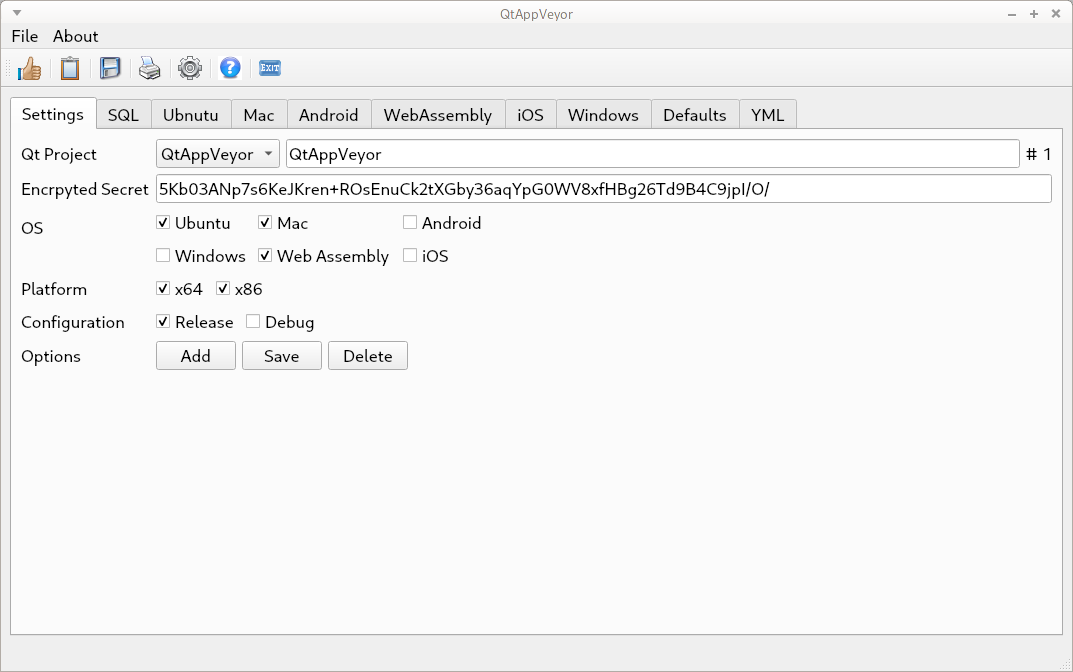
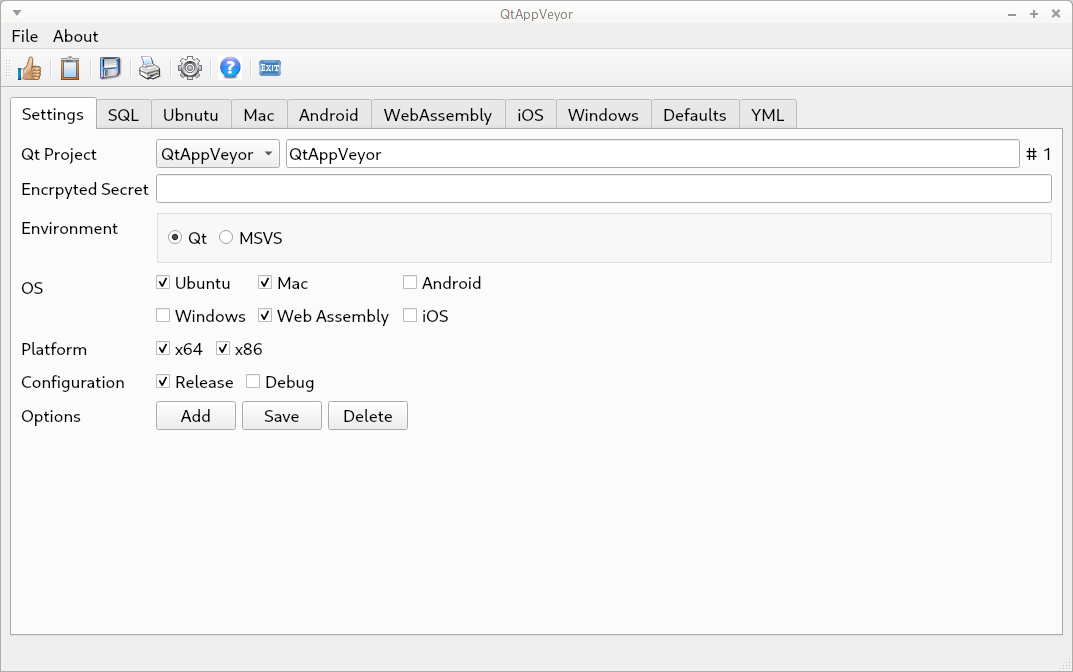
Update

Changed region(s): [[0.0308, 0.25, 0.7074, 0.6562], [0.0, 0.4688, 0.123, 0.625], [0.0, 0.4062, 0.0923, 0.4375]]

diff --git a/MySqlDbtModel.cpp b/MySqlDbtModel.cpp
@@ -8,7 +8,7 @@ MySqlDbtModel::MySqlDbtModel(QObject *parent)
     myOrgDomainSetting = new MyOrgSettings(parent);
     // Create Variable Trackers and Set to Empty
     myConfigurationVariables = new MyConfigurationClass("", "", "", "", "", "", "", "", "", "", "", "", "", "");
-    myProjectVariables = new MyProjectClass("", "", "", "", "", "", "", "", "", "", "", "", "");
+    myProjectVariables = new MyProjectClass("", "", "", "", "", "", "", "", "", "", "", "", "", "");
 }
 /******************************************************************************
 * \fn ~QtAppVeyorDataTable
@@ -369,9 +369,9 @@ bool MySqlDbtModel::checkDatabase()
          * IsDebug varchar,
          * IsRelease varchar
         */
-        if (runQuery(QLatin1String(R"(CREATE TABLE Projects(id integer PRIMARY KEY autoincrement, QtProject varchar, Secret varchar, IsOsUbuntu varchar, IsOsMac varchar, IsOsWebAssembly varchar, IsOSiOS varchar, IsOsWindows varchar, IsOsAndroid varchar, IsX64 varchar, IsX86 varchar, IsDebug varchar, IsRelease varchar))")))
+        if (runQuery(QLatin1String(R"(CREATE TABLE Projects(id integer PRIMARY KEY autoincrement, QtProject varchar, Secret varchar, Environment varchar, IsOsUbuntu varchar, IsOsMac varchar, IsOsWebAssembly varchar, IsOSiOS varchar, IsOsWindows varchar, IsOsAndroid varchar, IsX64 varchar, IsX86 varchar, IsDebug varchar, IsRelease varchar))")))
         {
-            setProject(myOrgDomainSetting->myConstants->MY_PROJECT_QT, myOrgDomainSetting->myConstants->MY_PROJECT_SECRET, myOrgDomainSetting->myConstants->MY_PROJECT_UBUNTU, myOrgDomainSetting->myConstants->MY_PROJECT_MAC, myOrgDomainSetting->myConstants->MY_PROJECT_WINDOWS, myOrgDomainSetting->myConstants->MY_PROJECT_ANDROID, myOrgDomainSetting->myConstants->MY_PROJECT_WEB_ASSEMBLY, myOrgDomainSetting->myConstants->MY_PROJECT_IOS, myOrgDomainSetting->myConstants->MY_PROJECT_X64, myOrgDomainSetting->myConstants->MY_PROJECT_X86, myOrgDomainSetting->myConstants->MY_PROJECT_DEBUG, myOrgDomainSetting->myConstants->MY_PROJECT_RELEASE);
+            setProject(myOrgDomainSetting->myConstants->MY_PROJECT_QT, myOrgDomainSetting->myConstants->MY_PROJECT_SECRET, myOrgDomainSetting->myConstants->MY_PROJECT_ENVIRONMENT, myOrgDomainSetting->myConstants->MY_PROJECT_UBUNTU, myOrgDomainSetting->myConstants->MY_PROJECT_MAC, myOrgDomainSetting->myConstants->MY_PROJECT_WINDOWS, myOrgDomainSetting->myConstants->MY_PROJECT_ANDROID, myOrgDomainSetting->myConstants->MY_PROJECT_WEB_ASSEMBLY, myOrgDomainSetting->myConstants->MY_PROJECT_IOS, myOrgDomainSetting->myConstants->MY_PROJECT_X64, myOrgDomainSetting->myConstants->MY_PROJECT_X86, myOrgDomainSetting->myConstants->MY_PROJECT_DEBUG, myOrgDomainSetting->myConstants->MY_PROJECT_RELEASE);
             if (insertProjects())
             {
                 myProjectID = myInsertID;
@@ -478,7 +478,7 @@ bool MySqlDbtModel::insertProjects()
 {
     if (isDebugMessage) { qDebug() << "insertProjects"; }
     // QtProject, Secret, IsOsUbuntu, IsOsMac, IsOsWindows, IsOsAndroid, IsX64, IsX86, IsDebug, IsRelease
-    QString theQuery = QLatin1String(R"(INSERT INTO Projects (QtProject, Secret, IsOsUbuntu, IsOsMac, IsOsWindows, IsOsAndroid, IsOsWebAssembly, IsOSiOS, IsX64, IsX86, IsDebug, IsRelease) values('%1', '%2', '%3', '%4', '%5', '%6', '%7', '%8', '%9', '%10', '%11', '%12'))").arg(myProjectVariables->getQtProject(), myProjectVariables->getSecret(), myProjectVariables->getIsOsUbuntu(), myProjectVariables->getIsOsMac(), myProjectVariables->getIsOsWindows(), myProjectVariables->getIsOsAndroid(), myProjectVariables->getIsOsWebAssembly(), myProjectVariables->getIsOSiOS(), myProjectVariables->getIsX64(), myProjectVariables->getIsX86(), myProjectVariables->getIsDebug(), myProjectVariables->getIsRelease());
+    QString theQuery = QLatin1String(R"(INSERT INTO Projects (QtProject, Secret, Environment, IsOsUbuntu, IsOsMac, IsOsWindows, IsOsAndroid, IsOsWebAssembly, IsOSiOS, IsX64, IsX86, IsDebug, IsRelease) values('%1', '%2', '%3', '%4', '%5', '%6', '%7', '%8', '%9', '%10', '%11', '%12', '%13'))").arg(myProjectVariables->getQtProject(), myProjectVariables->getSecret(), myProjectVariables->getEnvironment(), myProjectVariables->getIsOsUbuntu(), myProjectVariables->getIsOsMac(), myProjectVariables->getIsOsWindows(), myProjectVariables->getIsOsAndroid(), myProjectVariables->getIsOsWebAssembly(), myProjectVariables->getIsOSiOS(), myProjectVariables->getIsX64(), myProjectVariables->getIsX86(), myProjectVariables->getIsDebug(), myProjectVariables->getIsRelease());
     if (isDebugMessage) { qDebug() << "insertProjects: " << theQuery; }
     //
     if (!runQuery(theQuery))
@@ -667,8 +667,8 @@ void MySqlDbtModel::saveProject()
 {
     if (isDebugMessage) qDebug() << "saveProject";
     QSqlQuery theQuery; //!< SQL Query
-    QString theQueryString = QString("UPDATE Projects set QtProject = '%1', Secret = '%2', IsOsUbuntu = '%3', IsOsMac = '%4', IsOsWebAssembly = '%5', IsOSiOS = '%6', IsOsWindows = '%7', IsOsAndroid = '%8', IsX64 ='%9', IsX86 = '%10', IsDebug = '%11', IsRelease = '%12' WHERE id = %12").arg(myProjectVariables->getQtProject(), myProjectVariables->getSecret(), myProjectVariables->getIsOsUbuntu(), myProjectVariables->getIsOsMac(), myProjectVariables->getIsOsWebAssembly(), myProjectVariables->getIsOSiOS(), myProjectVariables->getIsOsWindows(), myProjectVariables->getIsOsAndroid(), myProjectVariables->getIsX64(), myProjectVariables->getIsX86(), myProjectVariables->getIsDebug(), myProjectVariables->getIsRelease(), myProjectVariables->getID());
-    if (isDebugMessage) qDebug() << "thisQuery: |" << theQueryString << "|  QtProject = " << myProjectVariables->getQtProject() << "| Secret=" << myProjectVariables->getSecret() << "| IsOsUbuntu=" << myProjectVariables->getIsOsUbuntu() << "| IsOsMac=" << myProjectVariables->getIsOsMac() << "| IsOsWebAssembly=" << myProjectVariables->getIsOsWebAssembly() << "| IsOSiOS=" << myProjectVariables->getIsOSiOS() << "| IsOsWindows=" << myProjectVariables->getIsOsWindows() << "| IsOsAndroid=" << myProjectVariables->getIsOsAndroid() << "| IsX64=" << myProjectVariables->getIsX64() << "| IsX86=" << myProjectVariables->getIsX86() << "| IsDebug=" << myProjectVariables->getIsDebug() << "| IsRelease=" << myProjectVariables->getIsRelease() << "| ID=" << myProjectVariables->getID() << "|";
+    QString theQueryString = QString("UPDATE Projects set QtProject = '%1', Secret = '%2', Environment = '%3', IsOsUbuntu = '%4', IsOsMac = '%5', IsOsWebAssembly = '%6', IsOSiOS = '%7', IsOsWindows = '%8', IsOsAndroid = '%9', IsX64 ='%10', IsX86 = '%11', IsDebug = '%12', IsRelease = '%13' WHERE id = %14").arg(myProjectVariables->getQtProject(), myProjectVariables->getSecret(), myProjectVariables->getEnvironment(), myProjectVariables->getIsOsUbuntu(), myProjectVariables->getIsOsMac(), myProjectVariables->getIsOsWebAssembly(), myProjectVariables->getIsOSiOS(), myProjectVariables->getIsOsWindows(), myProjectVariables->getIsOsAndroid(), myProjectVariables->getIsX64(), myProjectVariables->getIsX86(), myProjectVariables->getIsDebug(), myProjectVariables->getIsRelease(), myProjectVariables->getID());
+    if (isDebugMessage) qDebug() << "thisQuery: |" << theQueryString << "|  QtProject = " << myProjectVariables->getQtProject() << "| Secret=" << myProjectVariables->getSecret() << "| Environment=" << myProjectVariables->getEnvironment() << "| IsOsUbuntu=" << myProjectVariables->getIsOsUbuntu() << "| IsOsMac=" << myProjectVariables->getIsOsMac() << "| IsOsWebAssembly=" << myProjectVariables->getIsOsWebAssembly() << "| IsOSiOS=" << myProjectVariables->getIsOSiOS() << "| IsOsWindows=" << myProjectVariables->getIsOsWindows() << "| IsOsAndroid=" << myProjectVariables->getIsOsAndroid() << "| IsX64=" << myProjectVariables->getIsX64() << "| IsX86=" << myProjectVariables->getIsX86() << "| IsDebug=" << myProjectVariables->getIsDebug() << "| IsRelease=" << myProjectVariables->getIsRelease() << "| ID=" << myProjectVariables->getID() << "|";
     if (!theQuery.exec(theQueryString))
     {
         qDebug() << "SqLite error saveProject:" << theQuery.lastError().text() << ", SqLite error code:" << theQuery.lastError();
@@ -721,11 +721,12 @@ void MySqlDbtModel::setConfiguration(const QString &thisID,const QString &thisPr
 * \fn setProject
 * Sets all Variables used in the Configuarion Database in one Place
 *******************************************************************************/
-void MySqlDbtModel::setProject(const QString &thisQtProject, const QString &thisSecret, const QString &thisIsOsUbuntu, const QString &thisIsOsMac, const QString &thisIsOsWebAssembly, const QString &thisIsOSiOS, const QString &thisIsOsWindows, const QString &thisIsOsAndroid, const QString &thisIsX64, const QString &thisIsX86, const QString &thisIsDebug, const QString &thisIsRelease)
+void MySqlDbtModel::setProject(const QString &thisQtProject, const QString &thisSecret, const QString &thisEnvironment, const QString &thisIsOsUbuntu, const QString &thisIsOsMac, const QString &thisIsOsWebAssembly, const QString &thisIsOSiOS, const QString &thisIsOsWindows, const QString &thisIsOsAndroid, const QString &thisIsX64, const QString &thisIsX86, const QString &thisIsDebug, const QString &thisIsRelease)
 {
     if (isDebugMessage) qDebug() << "setProject";
     myProjectVariables->setQtProject(thisQtProject);
     myProjectVariables->setSecret(thisSecret);
+    myProjectVariables->setEnvironment(thisEnvironment);
     myProjectVariables->setIsOsUbuntu(thisIsOsUbuntu);
     myProjectVariables->setIsOsMac(thisIsOsMac);
     myProjectVariables->setIsOsWindows(thisIsOsWindows);

diff --git a/MySqlDbtModel.h b/MySqlDbtModel.h
@@ -16,14 +16,18 @@
 *******************************************************************************/
 class MyProjectClass
 {
-        QString myID, myQtProject, mySecret, myIsOsUbuntu, myIsOsMac, myIsOsWebAssembly, myIsOSiOS, myIsOsWindows, myIsOsAndroid, myIsX64, myIsX86, myIsDebug, myIsRelease;
+        QString myID, myQtProject, mySecret, myEnvironment, myIsOsUbuntu, myIsOsMac, myIsOsWebAssembly, myIsOSiOS, myIsOsWindows, myIsOsAndroid, myIsX64, myIsX86, myIsDebug, myIsRelease;
     public:
-        MyProjectClass(const QString &thisID, const QString &thisQtProject, const QString &thisSecret, const QString &thisIsOsUbuntu, const QString &thisIsOsMac, const QString &thisIsOsWebAssembly, const QString &thisIsOSiOS, const QString &thisIsOsWindows, const QString &thisIsOsAndroid, const QString &thisIsX64, const QString &thisIsX86, const QString &thisIsDebug, const QString &thisIsRelease)
-            : myID{thisID}, myQtProject{thisQtProject}, mySecret{thisSecret}, myIsOsUbuntu{thisIsOsUbuntu}, myIsOsMac{thisIsOsMac}, myIsOsWebAssembly{thisIsOsWebAssembly}, myIsOSiOS{thisIsOSiOS}, myIsOsWindows{thisIsOsWindows}, myIsOsAndroid{thisIsOsAndroid}, myIsX64{thisIsX64}, myIsX86{thisIsX86}, myIsDebug{thisIsDebug}, myIsRelease{thisIsRelease} {}
+        MyProjectClass(const QString &thisID, const QString &thisQtProject, const QString &thisSecret, const QString &thisEnvironment, const QString &thisIsOsUbuntu, const QString &thisIsOsMac, const QString &thisIsOsWebAssembly, const QString &thisIsOSiOS, const QString &thisIsOsWindows, const QString &thisIsOsAndroid, const QString &thisIsX64, const QString &thisIsX86, const QString &thisIsDebug, const QString &thisIsRelease)
+            : myID{thisID}, myQtProject{thisQtProject}, mySecret{thisSecret}, myEnvironment{thisEnvironment}, myIsOsUbuntu{thisIsOsUbuntu}, myIsOsMac{thisIsOsMac}, myIsOsWebAssembly{thisIsOsWebAssembly}, myIsOSiOS{thisIsOSiOS}, myIsOsWindows{thisIsOsWindows}, myIsOsAndroid{thisIsOsAndroid}, myIsX64{thisIsX64}, myIsX86{thisIsX86}, myIsDebug{thisIsDebug}, myIsRelease{thisIsRelease} {}
         // Getters
         QString getID()              const { return myID;              }
         QString getQtProject()       const { return myQtProject;       }
         QString getSecret()          const { return mySecret;          }
+        QString getEnvironment()     const
+        {
+            return myEnvironment;
+        }
         QString getIsOsUbuntu()      const { return myIsOsUbuntu;      }
         QString getIsOsMac()         const { return myIsOsMac;         }
         QString getIsOsWebAssembly() const { return myIsOsWebAssembly; }
@@ -38,6 +42,10 @@ class MyProjectClass
         void setID(const QString &s)              { myID = s;              }
         void setQtProject(const QString &s)       { myQtProject = s;       }
         void setSecret(const QString &s)          { mySecret = s;          }
+        void setEnvironment(const QString &s)
+        {
+            myEnvironment = s;
+        }
         void setIsOsUbuntu(const QString &s)      { myIsOsUbuntu = s;      }
         void setIsOsMac(const QString &s)         { myIsOsMac = s;         }
         void setIsOsWebAssembly(const QString &s) { myIsOsWebAssembly = s; }
@@ -143,7 +151,7 @@ class MySqlDbtModel : public QObject
         bool insertProjects();                                      //!< insertConfigurations
         //
         void setConfiguration(const QString &thisID, const QString &thisProjectsID, const QString &thisOS, const QString &thisQtVersion, const QString &thisQtIfVersion, const QString &thisQtIfPackageUri, const QString &thisPythonVersion, const QString &thisPythonRequired, const QString &thisQtMingW32, const QString &thisQtMingW64, const QString &thisQtToolsMingW32, const QString &thisQtToolsMingW64, const QString &thisVisualStudio, const QString &thisOsUpgrade);
-        void setProject(const QString &thisQtProject, const QString &thisSecret, const QString &thisIsOsUbuntu, const QString &thisIsOsMac, const QString &thisIsOsWebAssembly, const QString &thisIsOSiOS, const QString &thisIsOsWindows, const QString &thisIsOsAndroid, const QString &thisIsX64, const QString &thisIsX86, const QString &thisIsDebug, const QString &thisIsRelease);
+        void setProject(const QString &thisQtProject, const QString &thisSecret, const QString &thisEnvironment, const QString &thisIsOsUbuntu, const QString &thisIsOsMac, const QString &thisIsOsWebAssembly, const QString &thisIsOSiOS, const QString &thisIsOsWindows, const QString &thisIsOsAndroid, const QString &thisIsX64, const QString &thisIsX86, const QString &thisIsDebug, const QString &thisIsRelease);
         //
         QString getConfigurationSelectQuery(const QString &thisWhereID); //!< getConfigurationSelectQuery
         QString getConfigurationProjectIdOsSelectQuery(const QString &thisWhereID, const QString &thisOS); //!< getConfigurationProjectIdOsSelectQuery

diff --git a/MainWindow.cpp b/MainWindow.cpp
@@ -144,7 +144,11 @@ void MainWindow::onCreate()
     thisYaml.append("  only:\n");
     thisYaml.append("    - master\n");
     thisYaml.append("\n");
-    thisYaml.append("build: off\n");
+    if (ui->radioButtonSettingsEnvironmentQt->isChecked())
+        thisYaml.append("build: off\n");
+    if (ui->radioButtonSettingsEnvironmentVs->isChecked())
+        thisYaml.append("build: on\n");
+
     thisYaml.append("configuration:\n");
     if (ui->checkBoxSettingsConfigurationDebug->isChecked())
     {
@@ -821,6 +825,25 @@ QtMingW32, QtMingW64, QtToolsMingW32, QtToolsMingW64, VisualStudio, OsUpgrade FR
 
             ui->lineEditSettingsQtProject->setText(query.value("QtProject").toString());
             ui->lineEditSettingsSecret->setText(query.value("Secret").toString());
+            // Environment Qt
+            if (query.value("Environment").toString() == "Qt")
+            {
+                ui->radioButtonSettingsEnvironmentQt->setChecked(true);
+            }
+            else
+            {
+                ui->radioButtonSettingsEnvironmentQt->setChecked(false);
+            }
+            // Environment VS
+            if (query.value("Environment").toString() == "MSVS")
+            {
+                ui->radioButtonSettingsEnvironmentVs->setChecked(true);
+            }
+            else
+            {
+                ui->radioButtonSettingsEnvironmentVs->setChecked(false);
+            }
+            //
             theIsOsUbuntu = query.value("IsOsUbuntu").toBool();
             theIsOsMac = query.value("IsOsMac").toBool();
             theIsOsWindows = query.value("IsOsWindows").toBool();
@@ -1448,6 +1471,12 @@ void MainWindow::setMyProjectConfigurationClass(int tabNumber)
                 myAccessSqlDbtModel->myProjectVariables->setIsX86("true");
             else
                 myAccessSqlDbtModel->myProjectVariables->setIsX86("false");
+            // Environment Qt
+            if (ui->radioButtonSettingsEnvironmentQt->isChecked())
+                myAccessSqlDbtModel->myProjectVariables->setEnvironment("Qt");
+            // Environment MSVS
+            if (ui->radioButtonSettingsEnvironmentVs->isChecked())
+                myAccessSqlDbtModel->myProjectVariables->setEnvironment("MSVS");
             //
             myAccessSqlDbtModel->myProjectVariables->setID(ui->labelRecordIdSettings->text());
             myAccessSqlDbtModel->myProjectVariables->setQtProject(ui->lineEditSettingsQtProject->text());

diff --git a/QtAppVeyorConstants.h b/QtAppVeyorConstants.h
@@ -44,6 +44,7 @@ class MyConstants
         // TabSettings Project
         const QString MY_PROJECT_QT = "QtAppVeyor";
         const QString MY_PROJECT_SECRET = "Secret";
+        const QString MY_PROJECT_ENVIRONMENT  = "Qt";
         const QString MY_PROJECT_UBUNTU = "true";
         const QString MY_PROJECT_MAC = "true";
         const QString MY_PROJECT_WINDOWS = "true";
@@ -142,6 +143,7 @@ class MyConstants
         // TabSettings Project
         const QString MY_PROJECT_QT           = "QtAppVeyor";
         const QString MY_PROJECT_SECRET       = "";
+        const QString MY_PROJECT_ENVIRONMENT  = "Qt";
         const QString MY_PROJECT_UBUNTU       = "true";
         const QString MY_PROJECT_MAC          = "true";
         const QString MY_PROJECT_WINDOWS      = "true";

diff --git a/README.md b/README.md
@@ -27,6 +27,12 @@ on Linux, Mac, Windows, and maybe WebAssembly and iOS, as well as Android,
 and how to use the Qt Installer Framework to make Installable applications,
 that are also updateable.
 
+This project is not just geared for Qt Software developers,
+it should be able to handle many different Envirnoments,
+but currently Qt is the only Envirnoment I have been working on,
+but I did add a button for different Envirnoments,
+this way this tool will be usefull to every Software developer.
+
 Index
 1. [Status](https://github.com/Light-Wizzard/QtAppVeyor#Status)
 2. [Development-Progress](https://github.com/Light-Wizzard/QtAppVeyor#Development-Progress)
@@ -42,10 +48,10 @@ Unix: [![Appveyor Build Status](https://ci.appveyor.com/api/projects/status/j7ht
 Windows: [![Appveyor Build Status](https://ci.appveyor.com/api/projects/status/j7htumuwfx31elf6?svg=true)](https://ci.appveyor.com/project/Light-Wizzard/QtAppVeyor)
 
 ### :package: **Downloads:**
- - :penguin: [Linux](https://github.com/Light-Wizzard/QtAppVeyor/releases/download/continuous/QtAppVeyor-x86_64.AppImage)
+ - :penguin: [Linux](https://github.com/Light-Wizzard/QtAppVeyor/releases/download/continuous/QtAppVeyor-Ubuntu-Release-x86.zip)
  - :penguin: :outbox_tray: [Linux Installer in work](https://github.com/Light-Wizzard/QtAppVeyor/releases/download/continuous/QtAppVeyor-Linux-Installer)
- - :office: [Windows zip](https://github.com/Light-Wizzard/QtAppVeyor/releases/download/continuous/QtAppVeyor-Windows.zip)
- - :office: :outbox_tray: [Windows Installer exe](https://github.com/Light-Wizzard/QtAppVeyor/releases/download/continuous/QtAppVeyor.exe)
+ - :office: [Windows zip](https://github.com/Light-Wizzard/QtAppVeyor/releases/download/continuous/QtAppVeyor-Windows-Release-x86.zip)
+ - :office: :outbox_tray: [Windows Installer exe in work](https://github.com/Light-Wizzard/QtAppVeyor/releases/download/continuous/QtAppVeyor.exe)
  - :apple: [Apple](https://github.com/Light-Wizzard/QtAppVeyor/releases/download/continuous/QtAppVeyor.dmg)
 
 Windows (Tested on 7 and 10 let me know if 8 works): Download zip and extract it, 
@@ -66,6 +72,7 @@ This is a work in progress, please report any bugs, and comments.
 * Android
 * WebAssembly
 * iOS
+* MSVS build of Qt Project
 
 ## Variables
 
@@ -159,7 +166,10 @@ CREATE TABLE Configuration(id integer PRIMARY KEY autoincrement,
 ```
 
 ## Help
-This Application has built in Help on the app itself.
+This Application has built in Help on the app itself, 
+but I will try to expand on the Help sections,
+and add Wiki Content,
+that might help.
 
 ## Screen-Shots
 ![Settings](https://github.com/Light-Wizzard/QtAppVeyor/blob/main/help/images/settings.png)
